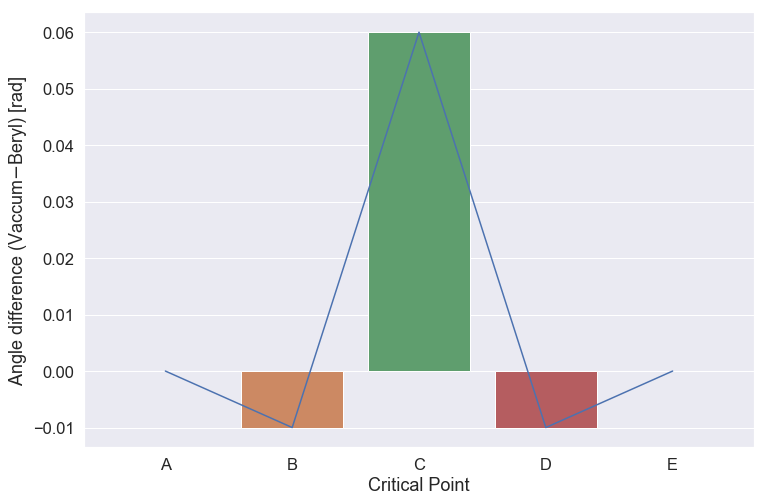
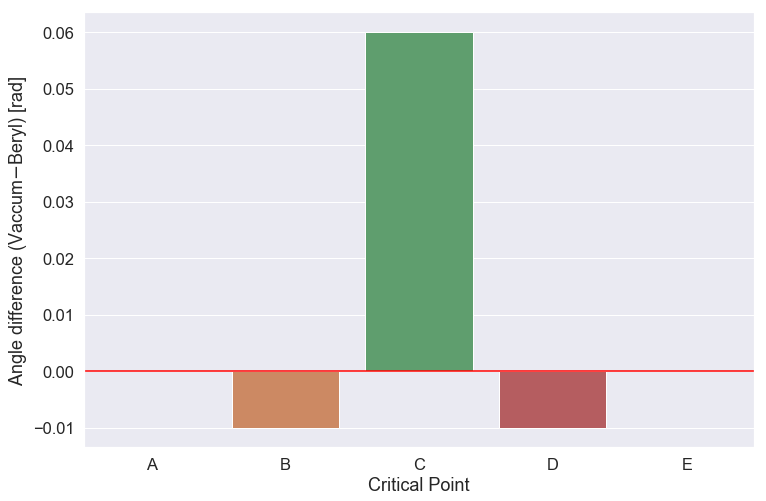
revised ch. 4

diff --git a/04_Potential_Map/04_main.tex b/04_Potential_Map/04_main.tex
@@ -1,11 +1,11 @@
 \chapter{Potential Map}
 \label{ch:pot_map}
 
-With an average geometry in-hand, the potential map for the water molecules rotating about the high-symmetry point can be investigated, which is the primary focus of this chapter. To begin, a broad sweep is conducted to confirm energy convergence, verify that the antiferroelectric coupling is energetically favorable, and to determine a smaller range for a fine sweep that captures all of the interesting features. 
+With an average geometry in-hand, the potential map for the water molecules rotating about the high-symmetry point can be investigated, which is the primary focus of this chapter. To begin, a broad sweep is conducted (a) to confirm energy convergence, (b) verify that the antiferroelectric coupling is energetically favorable, and (c) to determine a smaller range for a fine sweep that still captures all of the interesting features. 
 
-With an acceptable smaller range for the fine sweep identified, a fine sweep is carried out with antiferroelectric coupling both within the beryl framework and in vacuum. Furthermore, a fine sweep potential map is measured in vacuum with the beryl-based water molecule geometry as found in the previous chapter. 
+With an acceptable smaller range for the fine sweep identified, a fine sweep is carried out with antiferroelectric coupling both within the beryl framework and in vacuum. Furthermore, a fine sweep potential map is measured in vacuum with the beryl-geometry water molecule  as found in the previous chapter. 
 
-In the final subsection, the differences in the fine sweep potential map are analyzed to determine (a) if the \textit{interesting} features of the potential maps are products of interaction in the water-beryl or water-water subsystems and (b) what the contribution is of the water-beryl subsystem interactions to the total potential map.
+In the final subsection, the differences in the fine sweep potential map are analyzed to determine (a) if the \textit{interesting} features of the potential maps are products of interaction in the water-beryl or water-water subsystems and (b) what is the contribution of the water-beryl subsystem interactions to the total potential map.
 
     \section{Motivation for Investigation}
     
@@ -16,9 +16,9 @@ In the final subsection, the differences in the fine sweep potential map are ana
         \label{fig:pmap_misha}
     \end{figure}
     
-    Before beginning, however, it is important to highlight exactly why the seemingly contrived high-symmetry potential map is worth investigating.
+    Before beginning, however, it is important to highlight exactly why the high-symmetry potential map is worth investigating.
     
-    First and foremost, there is discrepancy in the literature about what the potential map looks like. Some groups have assumed a six-fold sinusoidal potential map (Fig. \ref{fig:pmap_misha}) [\textbf{vibrational paper}]. No distinction is made as to which rotation configuration the minima correspond. Another group has utilized a less-strict assumption \textemdash namely, a six-fold degenerate harmonic expansion (Fig. \ref{fig:pmap_other}). While here the minima are assigned to aligned nearest-neighbors, the potential in between minima is assumed to be constant. 
+    First and foremost, there is discrepancy in the literature about what the potential map looks like. One group, for example, assumes a six-fold sinusoidal potential map (Fig. \ref{fig:pmap_misha}) [\textbf{vibrational paper}] with no distinction made as to which rotation configuration the minima correspond. Another group utilizes a less-strict assumption \textemdash namely, a six-fold degenerate harmonic expansion (Fig. \ref{fig:pmap_other}). While here the minima are assigned to aligned nearest-neighbors, the potential between minima is assumed to be constant. 
     
     Both assumed potential maps have been used in the analysis of data from optical experiments. If a more accurate potential map can be used, the results from said analyses should improve.
 
@@ -29,30 +29,30 @@ In the final subsection, the differences in the fine sweep potential map are ana
         \label{fig:pamp_other}
     \end{figure}
     
-    Furthermore, the potential map, specifically the \textit{groundstate} potential map, provides a nice point-of-comparison for any future coarse-grained force fields and would allow for easy parameter tuning.
+    Furthermore, the potential map, specifically the \textit{groundstate} potential map, provides a nice point-of-comparison for any future coarse-grained force fields and would allow for parameter tuning.
 
     \section{Broad Sweep}
-    Like one would do when surveying a new region, a broad sweep is first carried out to set bearings, test a assumptions, and begin to understand how both fill and rotation of the water molecules affects the energetics of the system. 
-        \subsection{Energy Convergence Test}
+    Like one would do when surveying any new region, a broad sweep is first carried out to set bearings, test assumptions, and begin to understand how both fill and rotation of the water molecules affects the energetics of the system. 
+        \subsection{Energy Convergence Test in Beryl}
         \label{sec:en_conv_test}
-        \paragraph{Procedure} As was done with the structural optimization, the convergence of the relevant parameter--here, potential energy--is first tested. In previous works, energy barriers for the water molecule librations are reported to be fraction of meV \cite{vibr_states}. To recall, an energy difference tolerance of $10^{-4}$ eV for the structural optimization. Again, for reasons of computational cost, using this tolerance is ideal, but it is on the order of the features intended to be measured. Therefore, the potential map under this energy difference tolerance is compared to that obtained under a tolerance of $10^{-6}$ eV. 
+        \paragraph{Procedure} As was done with the structural optimization, the convergence of the relevant parameter--here, potential energy--is first tested. In previous works, energy barriers for the water molecule librations are reported to be fractions of meV \cite{vibr_states}. To recall, an EDST of $10^{-4}$ eV for the structural optimization was used. Again, for reasons of computational cost, using this tolerance is ideal, but it is on the order of the features intended to be measured. Therefore, the potential map under this EDST is compared to that obtained under a smaller tolerance of $10^{-6}$ eV. 
         
         For the larger tolerance, the configuration for fill 1010 is used. The two extra-framework water molecules are coupled ferroelectrically---meaning the relative angle between molecules vanishes at all times---and starting from the standard position, are rotated through $\pi$ radians in steps of $\Delta \theta = \pi/150$. The resulting potential map is then inspected (see Fig. \ref{fig:pmap_convergence}) to determine a slightly smaller rotation range for the smaller tolerance that still maps the features of interest, since the computation time for said smaller tolerance is significantly longer. Using this smaller range of $\pi/3$ radians with the same $\Delta \theta$, the ferroelectrically coupled water molecules are again rotated, and the potential map is measured.
         
         The comparison of these maps is carried out via the ratio of the energies for each angle $\theta \in \{0,\pi/3\}$. Again, assuming that the results are not significantly difference, the ratio should approach unity for each rotated configuration.
         
-        \paragraph{Calculation Details} For each rotated configuration, the standard self-consistent calculator is used, with the only difference being the energy difference tolerance EDIFF as out discussed above.
+        \paragraph{Calculation Details} For each rotated configuration, the standard self-consistent calculator is used, with the only difference being the EDST EDIFF as out discussed above.
         
         \paragraph{Results and Analysis}
         
         \begin{figure}
             \centering
             \includegraphics[width=0.8\linewidth]{Figures/System/pmap_convergence.png}
-            \caption{The results for the energy convergence test. (Top) The ratio of the energies calculated under both energy difference tolerance for each rotated configuration. The dashed, red line indicated unity. (Bottom) The broad sweep potential map under energy difference tolerance $10^{-4}$ eV. See text for analysis. }
+            \caption{The results for the energy convergence test. (Top) The ratio of the energies calculated under both EDST for each rotated configuration. The dashed, red line indicated unity. (Bottom) The broad sweep potential map under EDST $10^{-4}$ eV. See text for analysis. }
             \label{fig:pmap_convergence}
         \end{figure}
         
-        The results for the energy convergence test are shown in Fig. \ref{fig:pmap_convergence}. As evident from the top subfigure therein, no appreciable accuracy in the potential energy calculation is gained from the smaller energy difference tolerance. For each angle of rotation, the ratio is exactly unity, at least within the resolution of the graph. The larger tolerance is therefore deemed acceptably converged for purposes of calculating potential maps.
+        The results for the energy convergence test are shown in Fig. \ref{fig:pmap_convergence}. As evident from the top subfigure therein, no appreciable accuracy in the potential energy calculation is gained from the smaller EDST. For each angle of rotation, the ratio is exactly unity, at least within the resolution of the graph. The larger tolerance is therefore deemed acceptably converged for purposes of calculating potential maps.
         
         The bottom subfigure in Fig. \ref{fig:pmap_convergence} shows the broad sweep potential map. Immediately, some relevant features are identifiable. Specifically, there are two sets of 6-fold degenerate local minima. The first of these two local minima appear at $\theta = n\pi/3$ for $n\in \left[0,5\right] \cap \mathbb{Z}$. These angles correspond to positions where the water molecule dipole moment is coincident with the dipole moment of a nearest neighbor water molecule. (See Fig. \ref{fig:supercell} for visual aid.) Offset from these minima by $\Delta \theta = \pi/6$ radians are the second set of local minima, which correspond to dipole coincidence amongst next-nearest neighbors. 
         
@@ -67,12 +67,12 @@ In the final subsection, the differences in the fine sweep potential map are ana
         
         \paragraph{Conclusions} The above results are consistent with existing studies that utilized the potential map in some fashion \cite{vibr_states} [\textbf{CITE OTHER PMAP ARTICLE}] in the sense that there does exist a 6-fold degenerate local minimum that corresponds to symmetric rotation configuration about the high-symmetry point. However, thus far an ambiguity has been raised, because it is not clear \textit{which} of the two 6-fold degenerate minima the previous works are referring. Once a fine sweep is conducted, energy barriers can be measured, and hopefully this ambiguity can be lifted.
         
-        For the remainder of the broad sweep investigation and in the interest of speeding up data set collection times, a smaller rotation of $\pi/3$ radians is deemed appropriate to capture the three minima and other relevant features. 
+        For the remainder of the broad sweep investigation and in the interest of speeding up data set collection times, a smaller rotation of $\pi/3$ radians is deemed appropriate to capture the three types of minima and other relevant features. 
         
-        \subsection{Relative Angle Test}
+        \subsection{Relative Angle Test in Beryl}
         \label{sec:rel_ang_Test}
         
-        \paragraph{Background Information }Moving forward, choices need to be made to limit the portion of the parameter space that is sampled due to resource limitations. Since the ultimate goal is to develop a parameterized force field that can capture the groundstate interactions of the extra-framework water molecules, limiting the calculated potential maps to those that correspond to the most energetically favored state is one such choice. If the contributions from the framework crystal are truly of the static variety, then thinking of the water-water subsystem as two identical, interacting classical dipoles in vacuum is a useful heuristic. If said dipoles are interacting in the same fashion as the two water molecules in the crystal, the only relevant degree of freedom is rotation about the c-axis, and the interaction is described by
+        \paragraph{Background Information }Moving forward, choices need to be made to limit the portion of the parameter space that is sampled due to resource limitations. Since the ultimate goal is to develop a parameterized force field that can capture the groundstate interactions of the extra-framework water molecules, limiting the calculated potential maps to those that correspond to the most energetically favored state is one such choice. If the contributions from the framework crystal are truly of the static variety, then thinking of the water-water subsystem as two identical, interacting classical dipoles in vacuum is a useful heuristic. If said dipoles are interacting in the same fashion as the two water molecules in the unit cell, the only relevant degree of freedom is rotation about the c-axis, and the interaction is described by
         
         \begin{equation}
         \label{eq:dip_interaction}
@@ -81,13 +81,13 @@ In the final subsection, the differences in the fine sweep potential map are ana
         
         \noindent for some constant of proportionality $k$, dipole moment $p$, separation distance $r_0$, and relative angle $\theta$. Equation \ref{eq:dip_interaction} is minimized when $\theta = \pi$, or when the two dipoles are antiferroelectrically coupled. 
         
-        \paragraph{Procedure} Sticking with the fill 1010 configuration, potential maps through rotation angle $\pi/3$ radians with $\Delta \theta = \pi/90$ are calculated where the relative angle between the water molecules $\alpha$ is varied. The relative angles investigated are $0 \le \alpha \le \pi$ in increments of $\Delta \alpha = \pi/6$.
+        \paragraph{Procedure} Continuing with the fill 1010 configuration, potential maps through rotation angle $\pi/3$ radians with $\Delta \theta = \pi/90$ are calculated where the relative angle between the water molecules $\alpha$ is varied. The relative angles investigated are $0 \le \alpha \le \pi$ in increments of $\Delta \alpha = \pi/6$.
         
         \paragraph{Calculation Details} As before, the standard self-consistent calculator is used for each configuration listed above.
         
         \paragraph{Results and Analysis}
         
-        The results of the relative angle test are given in Fig. \ref{fig:pmap_rel_angle}. Immediately, it's clear that the potential maps are qualitatively equivalent not only to each other, but also to the results of the convergence test (Fig. \ref{fig:pmap_convergence}). Specifically, the degeneracy previously identified are present for each relative angle configuration. 
+        The results of the relative angle test are given in Fig. \ref{fig:pmap_rel_angle}. Immediately, it's clear that the potential maps are qualitatively equivalent not only to each other, but also to the results of the convergence test (Fig. \ref{fig:pmap_convergence}). Specifically, the degeneracies previously identified are present for each relative angle configuration. 
         
         \begin{figure}
             \centering
@@ -98,13 +98,13 @@ In the final subsection, the differences in the fine sweep potential map are ana
         
         Turning now to the differences between the relative angle potential maps, it is clear from inspection that the antiferroelectrically coupled configuration is the most energetically favorable. Furthermore, the potential map appears to experience a non-linear, negative shift as relative angle increases. There also appear to be differences in the \textit{topology} of the potential maps. 
         
-        A more quantitative analysis of the changes described above entails comparing the results to (\ref{eq:dip_interaction}) by answering the question, how does the potential map behave as molecule A is held fixed while molecule C rotates? To answer this question, vertical line cuts of Fig. \ref{fig:pmap_rel_angle} are made using the following procedure for each rotation angle $\theta_i$. The energy difference between $E(\theta_i,\alpha_j)$ for relative angle $\alpha_j$ and $E(\theta_i,0)$ is determined for each $\theta_i$ and $\alpha_j$. Then, the average is taken over all $\theta_i$, resulting in an average description of the energy as a function of relative dipole angle $\alpha$ that should be approximated by (\ref{eq:dip_interaction}). The results are shown in Fig. \ref{fig:relative_angle_fit}. Here, the function is fit by hand to 
+        A more quantitative analysis of the changes described above entails comparing the results to (\ref{eq:dip_interaction}) by answering the question, how does the potential map behave as molecule A is held fixed while molecule C rotates regardless of the orientation with respect to the framework? To answer this question, vertical line cuts of Fig. \ref{fig:pmap_rel_angle} are made using the following procedure for each rotation angle $\theta_i$. The energy difference between $E(\theta_i,\alpha_j)$ for relative angle $\alpha_j$ and $E(\theta_i,0)$ is determined for each $\theta_i$ and $\alpha_j$. Then, the average is taken over all $\theta_i$, resulting in an average description of the energy as a function of relative dipole angle $\alpha$ that should be approximated by (\ref{eq:dip_interaction}). The results are shown in Fig. \ref{fig:relative_angle_fit}. Here, the function is fit by hand to 
         
         \begin{equation}
             E(\alpha) = A \sin(\omega \alpha),
         \end{equation}
         
-        \noindet with amplitude $A = -0.88$ meV and frequency $\omega = \pi/6$. The function was fit by hand due to the difficulties of fitting a sinusoidal function only one-half wavelength's worth of data. Even with such a rudimentary fit protocol, though, it is clear that the data agrees reasonable well with (\ref{eq:dip_interaction}), with deviations (specifically below 1.0 radians) being attributed to dipole-framework and higher order dipole-dipole interactions that are not captures by the heuristic assumption. The need for error bars---representing the standard error of the mean---further suggests that the dipole-framework and higher order dipole-dipole interactions influence the potential map topology. Put differently, the distinguishable features of the potential map should vary with relative angle.
+        \noindent with amplitude $A = -0.88$ meV and frequency $\omega = \pi/6$. The function was fit by hand due to the difficulties of fitting a sinusoidal function only one-half wavelength's worth of data. Even with such a rudimentary fit protocol, though, it is clear that the data agrees reasonable well with (\ref{eq:dip_interaction}), with deviations (specifically below 1.0 radians) being attributed to dipole-framework and higher order dipole-dipole interactions that are not captures by the heuristic assumption. The need for error bars---representing the standard error of the mean---further suggests that the dipole-framework and higher order dipole-dipole interactions influence the potential map topology. Put differently, the distinguishable features of the potential map should vary with relative angle.
         
         \begin{figure}
             \centering
@@ -122,21 +122,21 @@ In the final subsection, the differences in the fine sweep potential map are ana
             \label{fig:zeroed_relative_angle_pmap}
         \end{figure}
         
-        \paragraph{Conclusions} Finally, the antiferroelectrically coupled configuration, as predicted by the heuristic assumption, is in fact the most energetically favorable and allows for a reduction in parameter space. Using this reduced parameter space, the effect that additional water molecules have on the potential map can be investigated by determining the antiferroelectrically coupled map for each fill configuration.
+        \paragraph{Conclusions} The antiferroelectrically coupled configuration, as predicted by the heuristic assumption, is in fact the most energetically favorable and allows for a reduction in parameter space. Using this reduced parameter space, the effect that additional water molecules have on the potential map can be investigated by determining the antiferroelectrically coupled map for each fill configuration.
         
-        \subsection{Map vs. Fill}
+        \subsection{Potential Map vs. Fill Factor}
         \label{sec:map_v_fill}
         
-        \paragraph{Procedure} Similar to the relative angle test procedure, potential maps are calculated for each fill using antiferroelectrically coupled water molecules. The molecules are rotated through $pi/3$ radians with $\Delta \theta = pi/90$. To make a meaningful comparison between fills, each potential map is zereoed to the energy of the initial configuration.
+        \paragraph{Procedure} Similar to the relative angle test procedure, potential maps are calculated for each fill using antiferroelectrically coupled water molecules. The molecules are rotated through $pi/3$ radians with $\Delta \theta = \pi/90$. To make a meaningful comparison between fills, each potential map is zereoed to the energy of the initial configuration.
         
-        \paragraph{Calculation Details} The standard self-consistent calculated is used.
+        \paragraph{Calculation Details} The standard self-consistent calculator is used.
         
         \paragraph{Results and Analysis}
         
         \begin{figure}
             \centering
             \includegraphics[width=0.9\linewidth]{Figures/System/pmap_af_broad.png}
-            \caption{The antiferroelectrically coupled potential maps as a function of fill.}
+            \caption{The antiferroelectrically coupled potential maps as a function of fill in beryl.}
             \label{fig:pmap_af_broad}
         \end{figure}
         
@@ -154,7 +154,7 @@ In the final subsection, the differences in the fine sweep potential map are ana
         
         \noindent with number of water molecules $n_\text{w}$, the addition of each water molecule decreases the total energy by 14.3125 eV. Thus, it is energetically favorable for a beryl crystal to have every cage filled with a water molecule.
         
-        It would be interesting to see how Fig. \ref{fig:pmap_avg_energy} would look using a larger unit cell with greater fill degeneracies, since such a curve would more accurately describe nature. Such large unit cells would be extremely expensive to calculate and would require greater computational resources than were available at time of research.
+        It would be interesting to see how Fig. \ref{fig:pmap_avg_energy} would look using a larger unit cell with greater fill degeneracies, since such a curve would more accurately describe nature. Such large unit cells would be extremely expensive to calculate and would require greater computational resources than were available at the time of this study.
         
         \begin{figure}
             \centering
@@ -191,16 +191,16 @@ In the final subsection, the differences in the fine sweep potential map are ana
          
          Nevertheless, quantitative information can be obtained about the effect of adding additional water molecules by comparing the energy differences between critical points, as shown in Fig. \ref{fig:pmap_cp_diff}. Here, the relative differences amongst the local minima A, C, E (respectively at points A, C, E) are compared as a function of fill, and the dilating effect of adding additional water molecules is clearly visible by the greater absolute difference in energy between all minima. 
          
-         Figure \ref{fig:pmap_cp_diff} also identifies a source of systematic error in that the intercepts do not all vanish. This is possibly due to calculation-approximation systematic errors---such as tolerances, basis sets, functionals, etc.---or more likely due to the finite,small unit cell. Looking at the only degenerate case $\phi=50$, there is slight difference in the results due to the different configurations, and thus an aggregate value must be used. In the limits of an infinite unit cell and of sampling all degenerate configurations, this error would likely be eliminated. There is the possibility that the intercept may not truly vanish, though, which would indicate that some contribution from the dipole-framework exists as well.
+         Figure \ref{fig:pmap_cp_diff} also identifies a source of systematic error in that the intercepts do not all vanish. This is possibly due to calculation-approximation systematic errors---such as tolerances, basis sets, functionals, etc.---or more likely due to the finite,small unit cell. Looking at the only degenerate case $\phi=0.50$, there is a slight difference in the results due to the different configurations, and thus an aggregate value must be used. In the limits of an infinite unit cell and of sampling all degenerate configurations, this error would likely be eliminated. There is the possibility that the intercept may not truly vanish, though, which would indicate that some contribution from the dipole-framework exists as well.
          
          \begin{figure}
              \centering
              \includegraphics[width=0.9\linewidth]{Figures/System/pmap_cp_diff.png}
-             \caption{The difference in energy between the local minima as a function of fill.}
+             \caption{The difference in energy for the beryl case between the local minima as a function of fill.}
              \label{fig:pmap_cp_diff}
          \end{figure}
          
-         The critical point analysis may also hint at a way to dramatically improve experimental investigations of these systems. As it stands, if one wanted to conduct fill-based analysis on an observable, say dielectric response, they must first perform all necessary spectroscopic experiments before determining the fill via mass spectrometer. All the while hoping that the sample they are working with has the fill that they want. On the other hand, if some type of scattering experiment were able to resolve any of the energy differences between local minima, future researchers would be able to approximate their system's fill by performing such a scattering experiment, virtually eliminating the aforementioned experimental bottleneck.
+         The critical point analysis may also hint at a way to dramatically improve experimental investigations of these systems. As it stands, if one wanted to conduct fill-based analysis on an observable, say dielectric response, they must first perform all necessary spectroscopic experiments before determining the fill via mass spectrometer, all the while hoping that the sample they are working with has the fill that they want. On the other hand, if some type of scattering experiment were able to resolve any of the energy differences between local minima, future researchers would be able to approximate their system's fill by performing such a scattering experiment, virtually eliminating the aforementioned experimental bottleneck.
          
          Finally, the fact that the absolute energy differences nearly all vanish suggests that the potential map features are primarily due to interactions within the dipole-dipole system. To elucidate this observation, similar analysis is performed on the vacuum potential maps.
 
@@ -221,13 +221,13 @@ In the final subsection, the differences in the fine sweep potential map are ana
         \begin{figure}
             \centering
             \includegraphics[width=0.9\linewidth]{Figures/System/pmap_vacuum_cps.png}
-            \caption{The absolute energy differences are various critical points for the vacuum potential maps. Again, the solid, color lines represent results for vacuum-geometry water molecules, while the dotted, black lines represent the results for beryl-geometry water molecules.}
+            \caption{The absolute energy differences for various critical points for the vacuum potential maps. Again, the solid, color lines represent results for vacuum-geometry water molecules, while the dotted, black lines represent the results for beryl-geometry water molecules. The inset is zoomed in on the C-E line, with the red line at $y=0$.}
             \label{fig:pmap_vaccum_cps}
         \end{figure}
         
-        Before moving on to the difference analysis, the difference in absolute energy between critical points A, C, and E is examined as in the beryl case (Fig. \ref{fig:pmap_vaccum_cps}. As mentioned in the caption, the same line-style convention is used as in Fig. \ref{fig:pmap_vacuum_comparison}. There exists no distinguishable difference between the vacuum-geometry and beryl-geometry water molecules. There is, however, a striking difference between these results and those shown in Fig. \ref{fig:pmap_cp_diff}. Namely, there is a degeneracy in the vacuum case that appears to be lifted within the present of the crystal framework. In Fig. \ref{fig:pmap_vaccum_cps}, The difference in energy between point A and points C, E are the same, while the difference between points C, E appears to vanish. This suggests that a degeneracy exists for the global minimum at points C and E. The lifting of this degeneracy supports the previous finding that the crystal acts as a non-interacting, background potential.
+        Before moving on to the difference analysis, the difference in absolute energy between critical points A, C, and E is examined as in the beryl case (Fig. \ref{fig:pmap_vaccum_cps}). As mentioned in the caption, the same line-style convention is used as in Fig. \ref{fig:pmap_vacuum_comparison}. There exists no distinguishable difference between the vacuum-geometry and beryl-geometry water molecules. There is, however, a striking difference between these results and those shown in Fig. \ref{fig:pmap_cp_diff}. Namely, there is a degeneracy in the vacuum case that appears to be lifted within the present of the crystal framework. In Fig. \ref{fig:pmap_vaccum_cps}, The difference in energy between point A and points C, E are the same, while the difference between points C, E appears to vanish. This suggests that a degeneracy exists for the global minimum at points C and E. The lifting of this degeneracy supports the previous finding that the crystal acts as a weakly interacting, background potential.
         
-        One further point on the degeneracy here: It is known that in the case of a one-dimensional chain of spins in vacuum no phase transition occurs with respect to their alignment \textbf{[citation needed?]}. It may be this degenerate groundstate that plays a role in suppressing such a phase transition, at least in the case of water molecules with the current spacing. Since this degeneracy is lifted in the crystal framework, perhaps a one-dimension chain could exhibit a phase transition. At the very least, it warrants greater investigation.
+        One further point on the degeneracy here: It is known that in the case of a one-dimensional chain of spins in vacuum no phase transition occurs with respect to their alignment \textbf{[citation needed?]}. It may be this degenerate groundstate that plays a role in suppressing such a phase transition, at least in the case of water molecules with the current spacing. Since this degeneracy is lifted in the crystal framework, perhaps a one-dimension chain could exhibit a phase transition. At the very least, it warrants further investigation.
         
         \subsection{Difference Analysis}
         \label{sec:diff_anal}
@@ -237,7 +237,7 @@ In the final subsection, the differences in the fine sweep potential map are ana
         \begin{figure}
             \centering
             \includegraphics[width=0.9\linewidth]{Figures/System/cp_diff.png}
-            \caption{The difference of angles at which the critical points occur. Here, a negative (positive) value indicates that including the framework shifts the critical point to the right (left).}
+            \caption{The difference of angles at which the critical points occur. Here, a negative (positive) value indicates that including the framework shifts the critical point to the right (left). The red line indicated $y=0$.}
             \label{fig:cp_diff}
         \end{figure}
         
@@ -246,7 +246,7 @@ In the final subsection, the differences in the fine sweep potential map are ana
         \begin{figure}
             \centering
             \includegraphics[width=0.9\linewidth]{Figures/System/diff_analysis.png}
-            \caption{The difference in potential maps between the beryl and vacuum cases. For consistency, the beryl-geometry water molcules are used for the vacuum case..}
+            \caption{The difference in potential maps between the beryl and vacuum cases. For consistency, the beryl-geometry water molecules are used for the vacuum case..}
             \label{fig:framework_contrubtion}
         \end{figure}
         
@@ -273,17 +273,17 @@ In the final subsection, the differences in the fine sweep potential map are ana
         In order for such an approximation to be useful, an analytic function needs to be found, to which the potential map data can be fit. In Fig. \ref{fig:framework_contribution_fit}, a preliminary analytic function is chosen for the fit, specifically
         
         \begin{equation}
-        \label{eq:fit}
+        \label{eq:fit222}
             E(\theta) = A\sin\left[\frac{\pi}{2} \sin\left( \omega \theta \right)\right]^n,
         \end{equation}
 
-        \noindent for parameters $A,\omega,n$. Equation (\ref{eq:fit}) was chosen after a casual search of sinusoidal functions that exhibit a squished amplitude, but better equations surely exist. Its use here is meant merely to be heuristic in nature. Even still, the fit is decent and hints that this avenue is worth further investigation. 
+        \noindent for parameters $A,\omega,n$. Equation (\ref{eq:fit222}) was chosen after a casual search of sinusoidal functions that exhibit a squished amplitude, but better equations surely exist. Its use here is meant merely to be heuristic in nature. Even still, the fit is decent and hints that this avenue is worth further investigation. 
         
         Besides using an more appropriate analytic function, utilizing a larger unit cell that allows for greater exploration of the fill (and fill-degeneracy) parameter space would yield a more generally appropriate fit. As discussed previously, however, such a large unit cell is cost prohibitive with the resources available for this investigation. Additionally, sampling a full, or at least larger total rotation, within the framework would help in fitting the frequency of analytic function.
         
     \section{Summary and Outlook}
     
-    \paragraph{Summary} The Energy Convergence Test (Section \ref{sec:en_conv_test}) provides insights on a few fronts. From a computation standpoint, the larger energy difference tolerance of $10^{-4}$ eV is acceptable for potential map calculations. From a physical standpoint, the calculated potential map tends to agree more with [\textbf{cite pmap2 paper}] in terms of qualitative shape. That is, a six-fold degenerate local minimum occurs when the dipole is co-linear with a nearest-neighbor dipole. In addition, there is a second six-fold degenerate local minimum that corresponds configuration in which the dipole is co-linear with a next-nearest neighbor dipole. In between these two local minima, a 12-fold generate global minimum between the two configurations which does not appear to correspond to any significant case of dipole-dipole alignment.
+    \paragraph{Summary} The Energy Convergence Test (Section \ref{sec:en_conv_test}) provides insights on a few fronts. From a computation standpoint, the larger EDST of $10^{-4}$ eV is acceptable for potential map calculations. From a physical standpoint, the calculated potential map tends to agree more with [\textbf{cite pmap2 paper}] in terms of qualitative shape. That is, a six-fold degenerate local minimum occurs when the dipole is co-linear with a nearest-neighbor dipole. In addition, there is a second six-fold degenerate local minimum that corresponds configuration in which the dipole is co-linear with a next-nearest neighbor dipole. In between these two local minima, a 12-fold generate global minimum between the two configurations which does not appear to correspond to any significant case of dipole-dipole alignment.
     
     The Relative Angle Test (Section \ref{sec:rel_ang_Test}) confirms that antiferroelectrically coupled dipole configurations---that is, dipoles with a relative angle difference of $\pi$ radians---are the most energetically favorable. Furthermore, the average energy dependence on the relative angle between dipoles agrees decently with the heuristic
     
@@ -294,7 +294,7 @@ In the final subsection, the differences in the fine sweep potential map are ana
     
     \noindent with $A=-0.88$ meV and $\omega = \pi/6$. Deviations from (\ref{eq:heur}) likely represent higher-order dipole-dipole and/or dipole-framework interactions. For the remainder of the investigation, only antiferroelectrically coupled systems are investigated.
     
-    In Section \ref{sec:map_v_fill}, the effect that fill has on the potential energy map is investigated. Five fill cases are investigated $\phi \in \{0.25,0.50,0.75,1.00\}$, with a degeneracy in the case of $\phi = 0.50$. As water molecules are added, a dilation effect can be observed in the potential maps. Specifically, the local maxima increase and local minima decrease with each additional water molecule. There is also a noticeable difference between the degenerate $\phi=0.50$ systems, suggesting that relative position of water molecules also plays a role in the energetics, although less significant compared to the effect of fill. In additional the dilation effect, there is a systematic decrease in energy with each water molecule at the rate of $14.3125$ eV/molecule. The fact that the water molecules seem to prefer closer association, at least energetically, is consistent with everyday experiences of water tending to clump together. 
+    In Section \ref{sec:map_v_fill}, the effect that fill has on the potential energy map is investigated. Five fill cases are investigated $\phi \in \{0.25,0.50,0.75,1.00\}$, with a degeneracy in the case of $\phi = 0.50$. As water molecules are added, a dilation effect can be observed in the potential maps. Specifically, the local maxima increase and local minima decrease with each additional water molecule. There is also a noticeable difference between the degenerate $\phi=0.50$ systems, suggesting that relative position of water molecules also plays a role in the energetics, although less significant compared to the effect of fill. In addition to the dilation effect, there is a systematic decrease in energy with each water molecule at the rate of $14.3125$ eV/molecule. The fact that the water molecules seem to prefer closer association, at least energetically, is consistent with everyday experiences of water tending to clump together. 
     
     For purposes of disentangling the dipole-dipole interaction from the dipole-framework interactions, a finer range is identified ($0\le\theta\le0.6$) that preserves all distinguishable features and over which a more accurate potential map can be calculated. The results from the Fine Sweep (Section \ref{sec:fine_sweep}) provide the most quantitative insights into the system's energetics. In the beryl case, five critical points A-E are identified that represent the primary local maxima and minima. By looking at the absolute energy difference between said points as a function of fill, a novel method for experimentally determining fill \textit{pre-}experiment is identified, so long as experiment can resolve the energy differences. Examination of the vacuum potential maps pushes this insight further. Again, five critical points are identified that correspond to qualitatively the same maxima and minima. Quantitatively, however, the critical points differ from their beryl-like counterparts in that there is a degeneracy where one did not previously exist. Specifically, points C, E are energetically degenerate. These results suggest that the dipole-framework interaction contributes a static increase in energy. Additionally, there is a difference in the absolute energy of all data points between the vacuum-geometry and beryl-geometry potential maps---the vacuum-geometry is slightly more favorable.
     
@@ -309,6 +309,6 @@ In the final subsection, the differences in the fine sweep potential map are ana
     
     \paragraph{Outlook}
     
-    In general, all improvements to the above-described protocols boil down the computational resources. In additional to testing the convergence with respect to energy difference tolerance, testing convergence with respect to cut-off energy, hybrid functionals, etc. would be helpful in bringing the results more inline with nature. Furthermore, a larger unit cell would go a long way in increasing the accuracy of all aggregate results (e.g. being able to sample more fill types and more fill degeneracies). Such a unit cell would also allow for great disentanglement of the energetics, because other relational parameters can be investigated. As it is, though, these would require almost an order of magnitude increase in computational resources.
+    In general, all improvements to the above-described protocols boil down the computational resources. In addition to testing the convergence with respect to EDST, testing convergence with respect to cut-off energy, hybrid functionals, etc. would be helpful in bringing the results more inline with nature. Furthermore, a larger unit cell would go a long way in increasing the accuracy of all aggregate results (e.g. being able to sample more fill types and more fill degeneracies). Such a unit cell would also allow for great disentanglement of the energetics, because other relational parameters can be investigated. As it is, though, these would require almost an order of magnitude increase in computational resources.
     
     It would also be interesting to see if a single one-dimensional channel (i.e. only periodic in the $c$-direction) would exhibit a phase transition. If so, it would serve as an example of how a small background perturbation can push a one-dimensional system to a phase transition.
